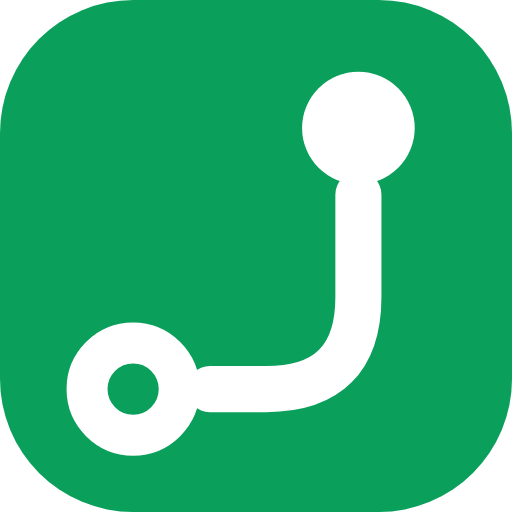
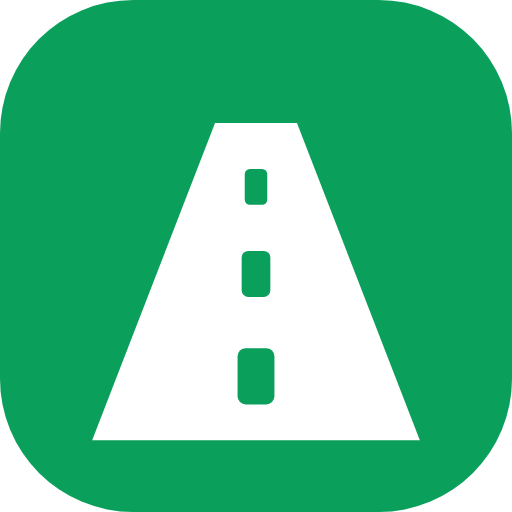
Yangi logotip: yo'lning o'zi, va 3.5 soniyalik ochilish animatsiyasi
Belgi — nomning o'zi: YO'LDA, ya'ni yo'lda. Shuning uchun belgida
yo'lning o'zi turibdi: pastdan boshlanib, ufqqa qarab torayib
boradigan yo'l va uning o'rtasidagi uch chiziq. Tasvir hammaga tanish
— har kuni old oynadan ko'rinadigan manzara, ya'ni tushuntirish talab
qilmaydi.

Nega aynan shunday shakl: belgi 16 nuqtagacha kichrayganda ham
o'qilishi kerak (brauzer yorlig'i, telefon ekrani). Yo'lning silueti —
bitta to'liq oq shakl, u shunday o'lchamda ham yo'qolmaydi; o'rtadagi
chiziqlar esa bitta ingichka yo'lga aylanadi, lekin shakl baribir yo'l
bo'lib qolaveradi.

Animatsiya belgining ma'nosini takrorlaydi: yo'l pastdan ko'tarilib
joyiga yotadi (kafel shakli uni kesib turadi, shuning uchun pastdan
chiqib kelgandek ko'rinadi), o'rtadagi chiziqlar pastdan tepaga qarab
birin-ketin yoqiladi, so'ng yo'l bo'ylab bir marta yorug'lik yuguradi
— harakat boshlandi. Jami roppa-rosa 3.5 soniya.

Orqa fon ham platformaniki: ilovaning yashil rangidan olingan to'q
yashil, ya'ni ekran begona rangda ochilmaydi. manifest dagi
background_color ham shunga o'tdi — o'rnatilgan ilovada Android avval
o'zining ochilish ekranini ko'rsatadi, ikkisi bir rangda bo'lsa o'tish
seziladi ham emas.

Ilova ikonkalari ham shu belgidan qayta chizildi (favicon, 192, 512,
maskali 512 va apple-touch).

Skriptdagi zaxira o'chirish vaqti 2.5 dan 5 soniyaga ko'tarildi:
avvalgisi animatsiyani yarim yo'lda kesib qo'ygan bo'lardi.

Claude-Session: https://claude.ai/code/session_01BL2CFTnx3vp2dkHynyCztG

Changed region(s): [[0.125, 0.125, 0.8125, 0.9062]]

diff --git a/index.html b/index.html
@@ -437,19 +437,22 @@
      ------------------------------------------------------------
      Ilova ochilganda bir necha yuz millisekund bo'sh ekran turardi:
      sahifa hali chizilmagan, hisob hali tiklanmagan. Endi shu
-     bo'shliqda belgining o'zi chiziladi.
+     bo'shliqda belgining o'zi harakatga keladi.
 
-     Harakat belgining ma'nosini takrorlaydi — ya'ni platformaning
-     ishini: bo'sh doira (yuk chiqadigan joy) paydo bo'ladi, undan
-     yo'l chiziladi, burilib boradi va manzilda to'la nuqta bilan
-     tugaydi; manzildan bir marta signal tarqaladi. Yuk A dan B ga
-     yetdi — ilova shu ish uchun.
+     Harakat belgining ma'nosini takrorlaydi. Belgi — yo'l, shuning
+     uchun: yo'l pastdan ko'tarilib o'z joyiga yotadi, o'rtasidagi
+     chiziqlar pastdan tepaga qarab birin-ketin yoqiladi, so'ng yo'l
+     bo'ylab bir marta yorug'lik yuguradi — harakat boshlandi. Jami
+     3.5 soniya.
 
-     Hech qanday tashqi fayl yo'q: belgi sahifadagi #logoMarkFlat
-     ning aynan o'zi (faqat bo'laklari alohida, chunki har biri o'z
-     vaqtida chiziladi), animatsiya esa CSS. Ya'ni ekran birinchi
-     baytdayoq chiziladi, rasm yoki kutubxona yuklanishini kutmaydi —
-     aks holda "kutish ekrani"ning o'zi kutishga sabab bo'lardi.
+     Orqa fon ham platformaniki: ilovaning yashil rangidan olingan
+     to'q yashil, ya'ni ekran begona rangda ochilmaydi.
+
+     Hech qanday tashqi fayl yo'q: belgi sahifadagi #logoMarkFlat ning
+     aynan o'zi (faqat bo'laklari alohida, chunki har biri o'z vaqtida
+     harakatlanadi), animatsiya esa CSS. Ya'ni ekran birinchi baytdayoq
+     chiziladi, rasm yoki kutubxona yuklanishini kutmaydi — aks holda
+     "kutish ekrani"ning o'zi kutishga sabab bo'lardi.
 
      Eng muhimi: u JAVASCRIPTSIZ ham yo'qoladi. Chiqib ketishi CSS
      animatsiyasi bilan (`forwards`), ya'ni skript xato bersa ham odam
@@ -458,71 +461,68 @@
   .splash{
     position:fixed;inset:0;z-index:99999;
     display:flex;align-items:center;justify-content:center;
-    background:radial-gradient(circle at 50% 44%, #16304B 0%, #0A1526 58%, #060B13 100%);
-    animation:splashOut 0.34s var(--ease, ease) 1.62s forwards;
+    background:radial-gradient(circle at 50% 44%, #0E3D28 0%, #061D13 58%, #020A06 100%);
+    animation:splashOut 0.4s var(--ease, ease) 3.1s forwards;
   }
-  .splash-inner{display:flex;flex-direction:column;align-items:center;gap:22px;}
+  .splash-inner{display:flex;flex-direction:column;align-items:center;gap:24px;}
   .splash-mark{
-    width:108px;height:108px;display:block;overflow:visible;
-    border-radius:28px;
-    animation:splashTile 0.42s cubic-bezier(0.22,1,0.36,1) both;
+    width:116px;height:116px;display:block;
+    animation:splashTile 0.55s cubic-bezier(0.22,1,0.36,1) both;
   }
-  /* Chiqish nuqtasi — bo'sh doira. Chizilib emas, ochilib chiqadi. */
-  .splash-mark .sm-from{
-    transform-origin:26px 76px;
-    animation:splashPop 0.3s cubic-bezier(0.34,1.56,0.64,1) 0.26s both;
+  /* Yo'l pastdan ko'tarilib joyiga yotadi. Kafel shakli uni kesib
+     turadi (clipPath), shuning uchun u pastdan chiqib kelgandek
+     ko'rinadi, kafeldan tashqariga chiqmaydi. */
+  .splash-mark .sm-road{
+    animation:splashRoad 0.9s cubic-bezier(0.22,1,0.36,1) 0.4s both;
   }
-  /* Yo'l chiqish nuqtasidan manzilgacha chiziladi. Uzunligi
-     ~59 (11 + burilish ~28 + 20), zaxira bilan 62. */
-  .splash-mark .sm-route{
-    stroke-dasharray:62;stroke-dashoffset:62;
-    animation:splashDraw 0.56s ease-in-out 0.44s forwards;
-  }
-  /* Manzil — to'la nuqta. Yo'l yetib kelgach paydo bo'ladi. */
-  .splash-mark .sm-to{
-    transform-origin:70px 25px;
-    animation:splashPop 0.34s cubic-bezier(0.34,1.56,0.64,1) 0.94s both;
-  }
-  /* Manzildan tarqaladigan signal: yuk yetib kelganining belgisi. */
-  .splash-mark .sm-ping{
-    fill:none;stroke:#FFFFFF;stroke-width:4;opacity:0;
-    transform-origin:70px 25px;
-    animation:splashPing 0.6s ease-out 1.1s forwards;
+  /* O'rtadagi chiziqlar pastdan tepaga qarab birin-ketin yoqiladi —
+     yo'l shu tomonga ketayotgandek. */
+  .splash-mark .sm-dash{animation:splashDash 0.5s ease-out both;}
+  .splash-mark .sm-dash-1{animation-delay:1.1s;}
+  .splash-mark .sm-dash-2{animation-delay:1.3s;}
+  .splash-mark .sm-dash-3{animation-delay:1.5s;}
+  /* Yo'l bo'ylab yuguradigan yorug'lik: harakat boshlandi. */
+  .splash-mark .sm-sweep{
+    opacity:0;
+    animation:splashSweep 1.0s ease-in-out 2.0s both;
   }
   .splash-word{
-    font-family:'Sora',system-ui,sans-serif;font-weight:700;font-size:22px;
+    font-family:'Sora',system-ui,sans-serif;font-weight:700;font-size:23px;
     letter-spacing:0.17em;color:#fff;
-    animation:splashWord 0.42s ease-out 0.9s both;
+    animation:splashWord 0.5s ease-out 1.6s both;
   }
-  .splash-word span{color:#0A9F5B;}
+  .splash-word span{color:#3BD98A;}
   @keyframes splashTile{from{opacity:0;transform:scale(0.88);}to{opacity:1;transform:scale(1);}}
-  @keyframes splashPop{from{opacity:0;transform:scale(0.2);}to{opacity:1;transform:scale(1);}}
-  @keyframes splashDraw{to{stroke-dashoffset:0;}}
-  @keyframes splashPing{
-    0%{opacity:0.75;transform:scale(0.6);}
-    100%{opacity:0;transform:scale(2.6);}
+  @keyframes splashRoad{from{transform:translateY(72px);}to{transform:translateY(0);}}
+  @keyframes splashDash{
+    from{opacity:0;transform:translateY(12px);}
+    to{opacity:1;transform:translateY(0);}
   }
-  @keyframes splashWord{from{opacity:0;transform:translateY(9px);}to{opacity:1;transform:none;}}
+  @keyframes splashSweep{
+    0%{opacity:0;transform:translateY(6px);}
+    25%{opacity:1;}
+    75%{opacity:1;}
+    100%{opacity:0;transform:translateY(-78px);}
+  }
+  @keyframes splashWord{from{opacity:0;transform:translateY(10px);}to{opacity:1;transform:none;}}
   @keyframes splashOut{to{opacity:0;visibility:hidden;pointer-events:none;}}
-  /* Harakatni kamaytirish so'ralgan bo'lsa belgi chizilmaydi: darhol
-     to'liq holida turadi va splash qisqa lahzadan keyin ketadi.
-     Yuqoridagi umumiy qoida bu yerda yetarli emas — u faqat
-     animatsiya davomiyligini nolga tushiradi, kechikishga tegmaydi,
-     ya'ni splash baribir bir soniya turib qolardi. */
+  /* Harakatni kamaytirish so'ralgan bo'lsa hech narsa harakatlanmaydi:
+     belgi to'liq holida turadi va ekran qisqa lahzadan keyin ketadi.
+     Yuqoridagi umumiy qoida bu yerda yetarli emas — u faqat animatsiya
+     davomiyligini nolga tushiradi, kechikishga tegmaydi, ya'ni splash
+     baribir uch soniya turib qolardi. */
   @media (prefers-reduced-motion: reduce){
     .splash{animation-delay:0.4s !important;}
     .splash-mark,.splash-word,
-    .splash-mark .sm-from,.splash-mark .sm-to{animation:none !important;}
-    .splash-mark .sm-ping{animation:none !important;opacity:0 !important;}
-    .splash-mark .sm-route{animation:none !important;stroke-dashoffset:0 !important;}
+    .splash-mark .sm-road,.splash-mark .sm-dash{animation:none !important;}
+    .splash-mark .sm-sweep{animation:none !important;opacity:0 !important;}
   }
   :root[data-reduce-motion="1"] .splash{animation-delay:0.4s !important;}
   :root[data-reduce-motion="1"] .splash-mark,
   :root[data-reduce-motion="1"] .splash-word,
-  :root[data-reduce-motion="1"] .splash-mark .sm-from,
-  :root[data-reduce-motion="1"] .splash-mark .sm-to{animation:none !important;}
-  :root[data-reduce-motion="1"] .splash-mark .sm-ping{animation:none !important;opacity:0 !important;}
-  :root[data-reduce-motion="1"] .splash-mark .sm-route{animation:none !important;stroke-dashoffset:0 !important;}
+  :root[data-reduce-motion="1"] .splash-mark .sm-road,
+  :root[data-reduce-motion="1"] .splash-mark .sm-dash{animation:none !important;}
+  :root[data-reduce-motion="1"] .splash-mark .sm-sweep{animation:none !important;opacity:0 !important;}
 
   /* ---------- NAV ---------- */
   /* Sarlavha hech qachon o'zgarmaydi: sahifa surilganda ham xuddi
@@ -4448,13 +4448,26 @@
 <div id="splash" class="splash" aria-hidden="true">
   <div class="splash-inner">
     <svg class="splash-mark" viewBox="0 0 100 100" aria-hidden="true">
+      <defs>
+        <clipPath id="spTile"><rect width="100" height="100" rx="26"/></clipPath>
+        <clipPath id="spRoad"><path d="M18 86 L42 24 H58 L82 86 Z"/></clipPath>
+        <linearGradient id="spSweep" x1="0" y1="0" x2="0" y2="1">
+          <stop offset="0" stop-color="#FFFFFF" stop-opacity="0"/>
+          <stop offset="0.5" stop-color="#FFFFFF" stop-opacity="0.75"/>
+          <stop offset="1" stop-color="#FFFFFF" stop-opacity="0"/>
+        </linearGradient>
+      </defs>
       <rect width="100" height="100" rx="26" fill="#0A9F5B"/>
-      <g fill="none" stroke="#FFFFFF" stroke-width="9" stroke-linecap="round">
-        <circle class="sm-from" cx="26" cy="76" r="9" stroke-width="8"/>
-        <path class="sm-route" d="M41 76 H52 Q70 76 70 58 V38"/>
+      <g clip-path="url(#spTile)">
+        <path class="sm-road" d="M18 86 L42 24 H58 L82 86 Z" fill="#FFFFFF"/>
+        <g fill="#0A9F5B">
+          <rect class="sm-dash sm-dash-1" x="46.4" y="68" width="7.2" height="11" rx="1.6"/>
+          <rect class="sm-dash sm-dash-2" x="47.2" y="49" width="5.6" height="9" rx="1.3"/>
+          <rect class="sm-dash sm-dash-3" x="47.8" y="33" width="4.4" height="7" rx="1"/>
+        </g>
+        <rect class="sm-sweep" x="8" y="76" width="84" height="26"
+              fill="url(#spSweep)" clip-path="url(#spRoad)"/>
       </g>
-      <circle class="sm-to" cx="70" cy="25" r="11" fill="#FFFFFF"/>
-      <circle class="sm-ping" cx="70" cy="25" r="11"/>
     </svg>
     <div class="splash-word">YO'LDA<span>.</span></div>
   </div>
@@ -4486,7 +4499,10 @@
     el.addEventListener("animationend", function(e){
       if(e.animationName === "splashOut") drop();
     });
-    setTimeout(drop, 2500);
+    /* Zaxira yo'l: animatsiya 3.5 soniya, shuning uchun bu undan
+       keyinroq ishlashi kerak — aks holda ekranni yarim yo'lda
+       olib tashlardi. */
+    setTimeout(drop, 5000);
   })();
 </script>
 
@@ -4512,40 +4528,41 @@
   <!-- ============================================================
        YO'LDA belgisi
        ------------------------------------------------------------
-       Ilgari ikkita har xil belgi ishlatilardi: panelda yashil kafel
-       ichidagi ikki lenta, pastda esa qora doira ichidagi uch
-       tayoqcha. Bir ilovada ikki belgi — odam qaysi birini yodda
-       saqlashini bilmaydi. Endi ikkalasi bitta.
+       Belgi — nomning o'zi: YO'LDA, ya'ni yo'lda. Shuning uchun
+       belgida yo'lning o'zi turibdi: pastdan boshlanib, ufqqa qarab
+       torayib boradigan yo'l va uning o'rtasidagi uch chiziq.
+       Tasvir hammaga tanish — har kuni old oynadan ko'rinadigan
+       manzara, ya'ni tushuntirish talab qilmaydi.
 
-       Belgining ma'nosi platformaning o'ziga teng: YO'NALISH.
-       Bo'sh doira — yuk chiqadigan joy, undan yo'l ketadi, burilib
-       boradi va to'la nuqtada — yetkaziladigan manzilda tugaydi.
-       Xaritadagi yo'nalish shunday chiziladi, ya'ni belgini
-       tushuntirib o'tirish shart emas.
+       Nega aynan shunday shakl: belgi 16 nuqtagacha kichrayganda ham
+       o'qilishi kerak (brauzer yorlig'i, telefon ekrani). Yo'lning
+       siluети — bitta to'liq oq shakl, u shunday o'lchamda ham
+       yo'qolmaydi; o'rtadagi chiziqlar esa bitta ingichka yo'lga
+       aylanadi, lekin shakl baribir yo'l bo'lib qolaveradi.
 
-       Nega aynan shunday: belgi 16 nuqtagacha kichrayganda ham
-       o'qilishi kerak (brauzer yorlig'i, telefon ekrani). Chiziq va
-       ikki nuqta shunday o'lchamda ham yo'qolmaydi; ilgarigi uch
-       tayoqcha esa bir-biriga qo'shilib ketardi.
+       Ilgari ikkita har xil belgi ishlatilardi — panelda bitta,
+       pastda boshqasi. Endi ikkala nom ham bitta tasvirni ko'rsatadi.
        ============================================================ -->
   <symbol id="logoMarkFlat" viewBox="0 0 100 100">
     <rect width="100" height="100" rx="26" fill="#0A9F5B"/>
-    <g fill="none" stroke="#FFFFFF" stroke-width="9" stroke-linecap="round">
-      <circle cx="26" cy="76" r="9" stroke-width="8"/>
-      <path d="M41 76 H52 Q70 76 70 58 V38"/>
+    <path d="M18 86 L42 24 H58 L82 86 Z" fill="#FFFFFF"/>
+    <g fill="#0A9F5B">
+      <rect x="46.4" y="68" width="7.2" height="11" rx="1.6"/>
+      <rect x="47.2" y="49" width="5.6" height="9" rx="1.3"/>
+      <rect x="47.8" y="33" width="4.4" height="7" rx="1"/>
     </g>
-    <circle cx="70" cy="25" r="11" fill="#FFFFFF"/>
   </symbol>
 
   <!-- Bir xil belgi. Ikkinchi nomi tarixdan qolgan: sahifada ikki
        joyda ikki `use` bor, ikkalasi ham ishlayversin. -->
   <symbol id="logoMark" viewBox="0 0 100 100">
     <rect width="100" height="100" rx="26" fill="#0A9F5B"/>
-    <g fill="none" stroke="#FFFFFF" stroke-width="9" stroke-linecap="round">
-      <circle cx="26" cy="76" r="9" stroke-width="8"/>
-      <path d="M41 76 H52 Q70 76 70 58 V38"/>
+    <path d="M18 86 L42 24 H58 L82 86 Z" fill="#FFFFFF"/>
+    <g fill="#0A9F5B">
+      <rect x="46.4" y="68" width="7.2" height="11" rx="1.6"/>
+      <rect x="47.2" y="49" width="5.6" height="9" rx="1.3"/>
+      <rect x="47.8" y="33" width="4.4" height="7" rx="1"/>
     </g>
-    <circle cx="70" cy="25" r="11" fill="#FFFFFF"/>
   </symbol>
 
   <g id="icon-defs" fill="none" stroke="currentColor" stroke-width="1.8" stroke-linecap="round" stroke-linejoin="round">
